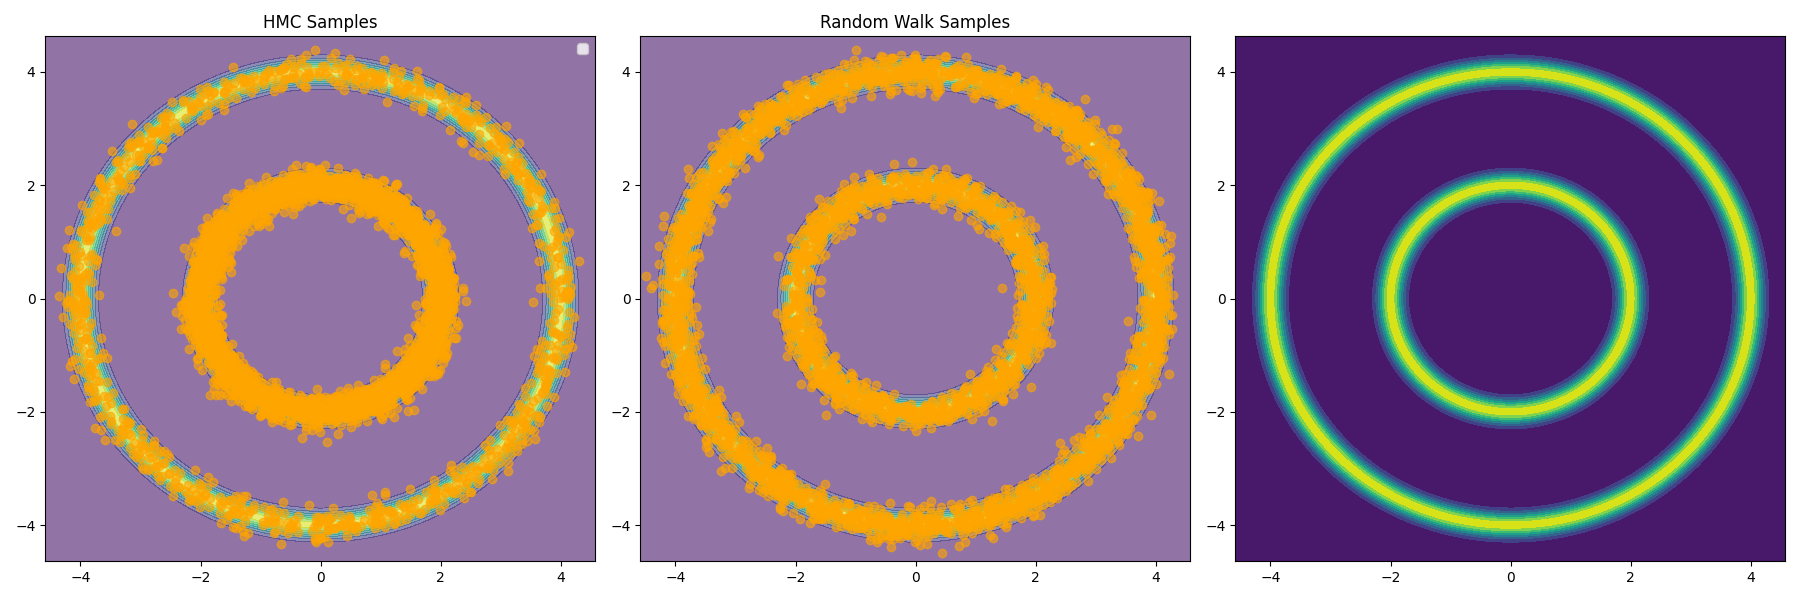
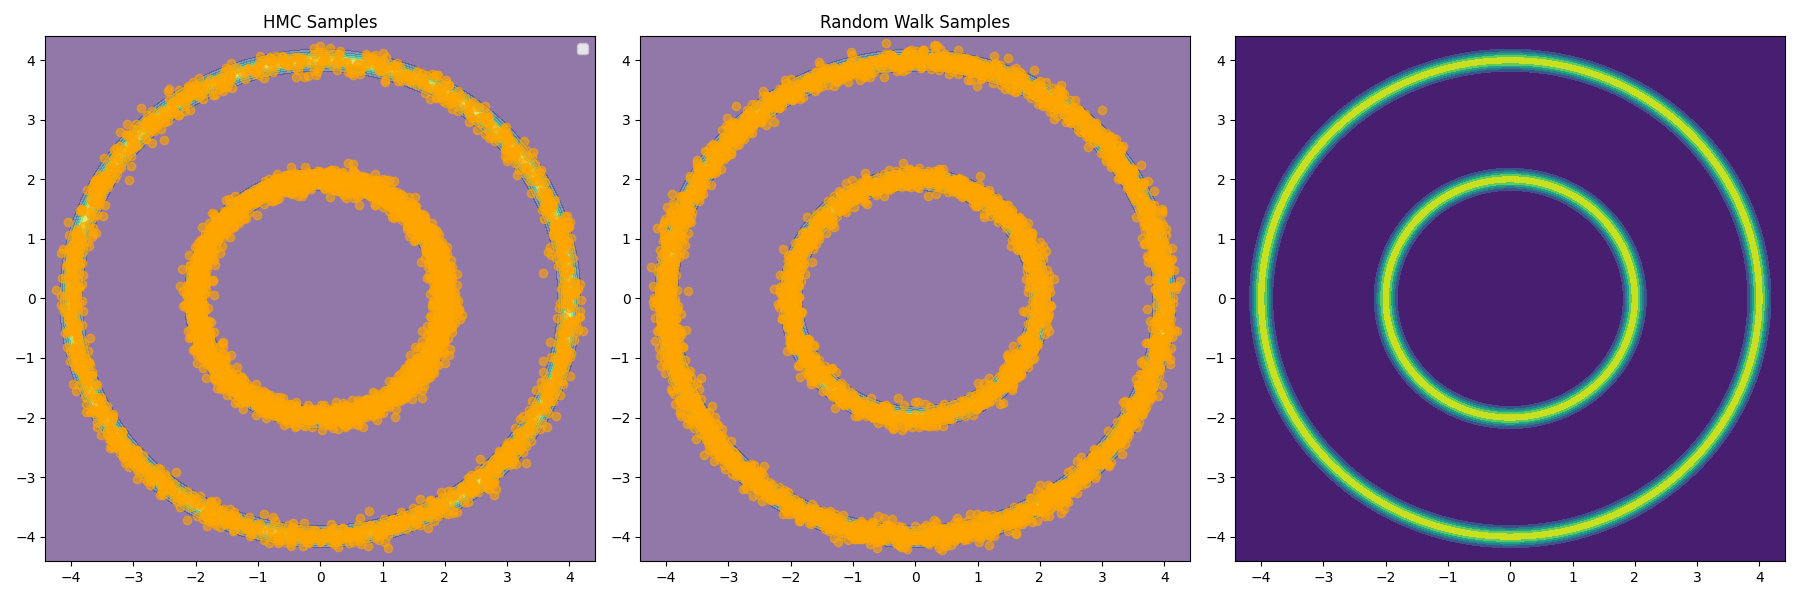
update

diff --git a/examples/rings.py b/examples/rings.py
@@ -3,7 +3,7 @@ import matplotlib.pyplot as plt
 from jaxhmc.eval import run
 from jaxhmc.potentials import RingsPotential
 
-potential = RingsPotential()
+potential = RingsPotential(sigma=0.1)
 run(potential)
 
 plt.savefig("examples/rings_samples.png")
